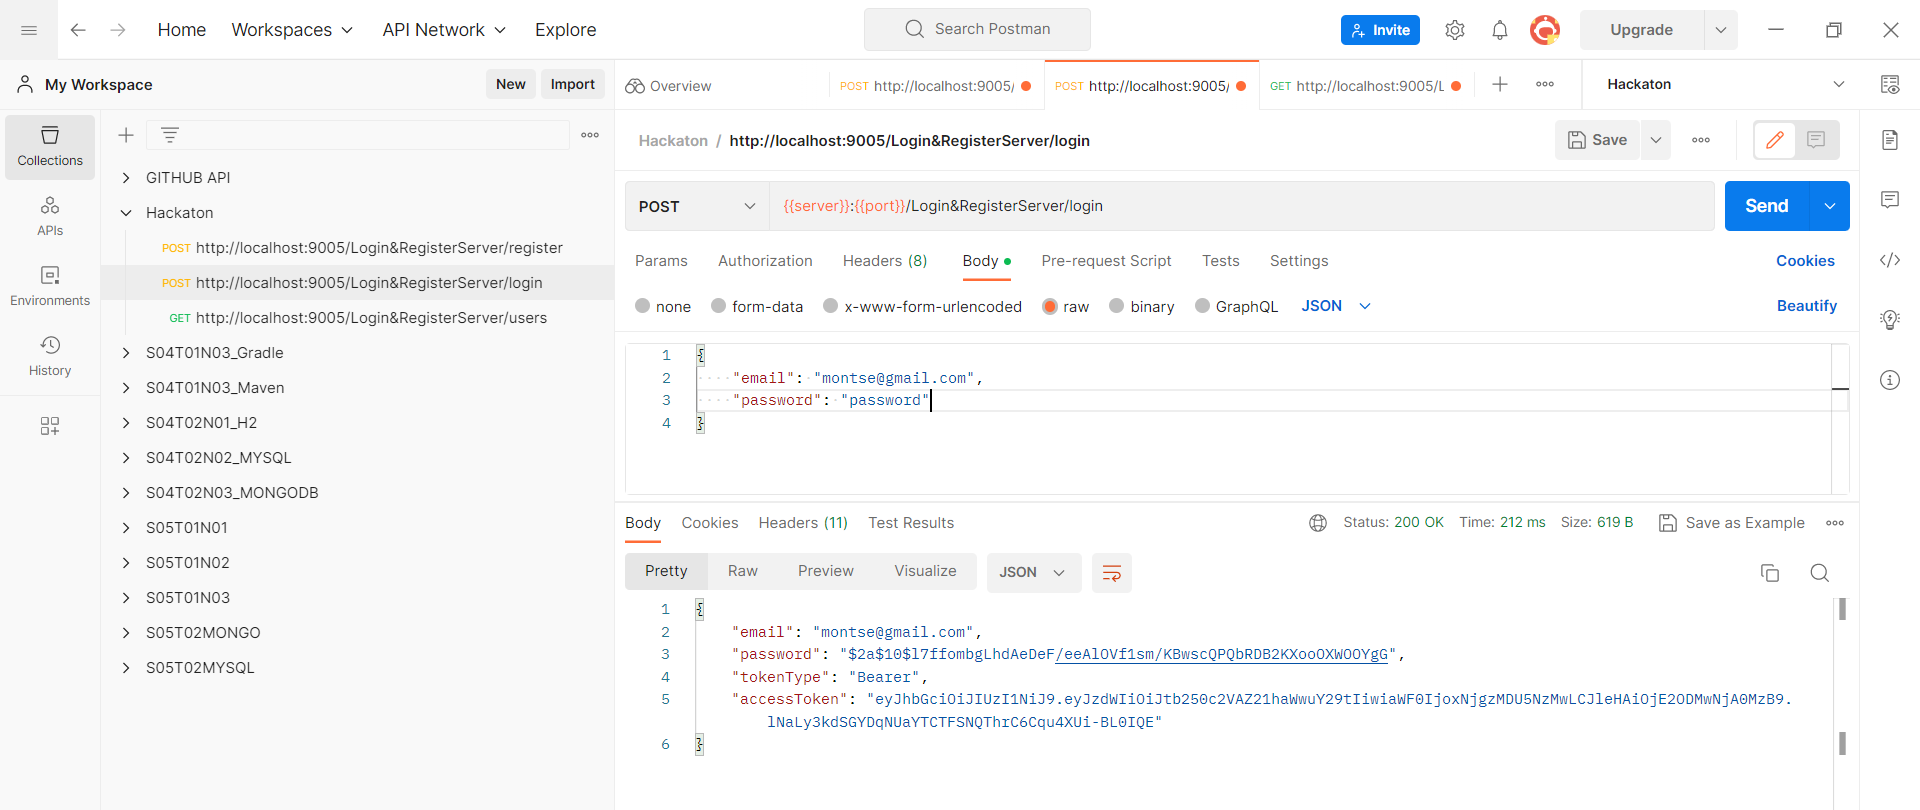
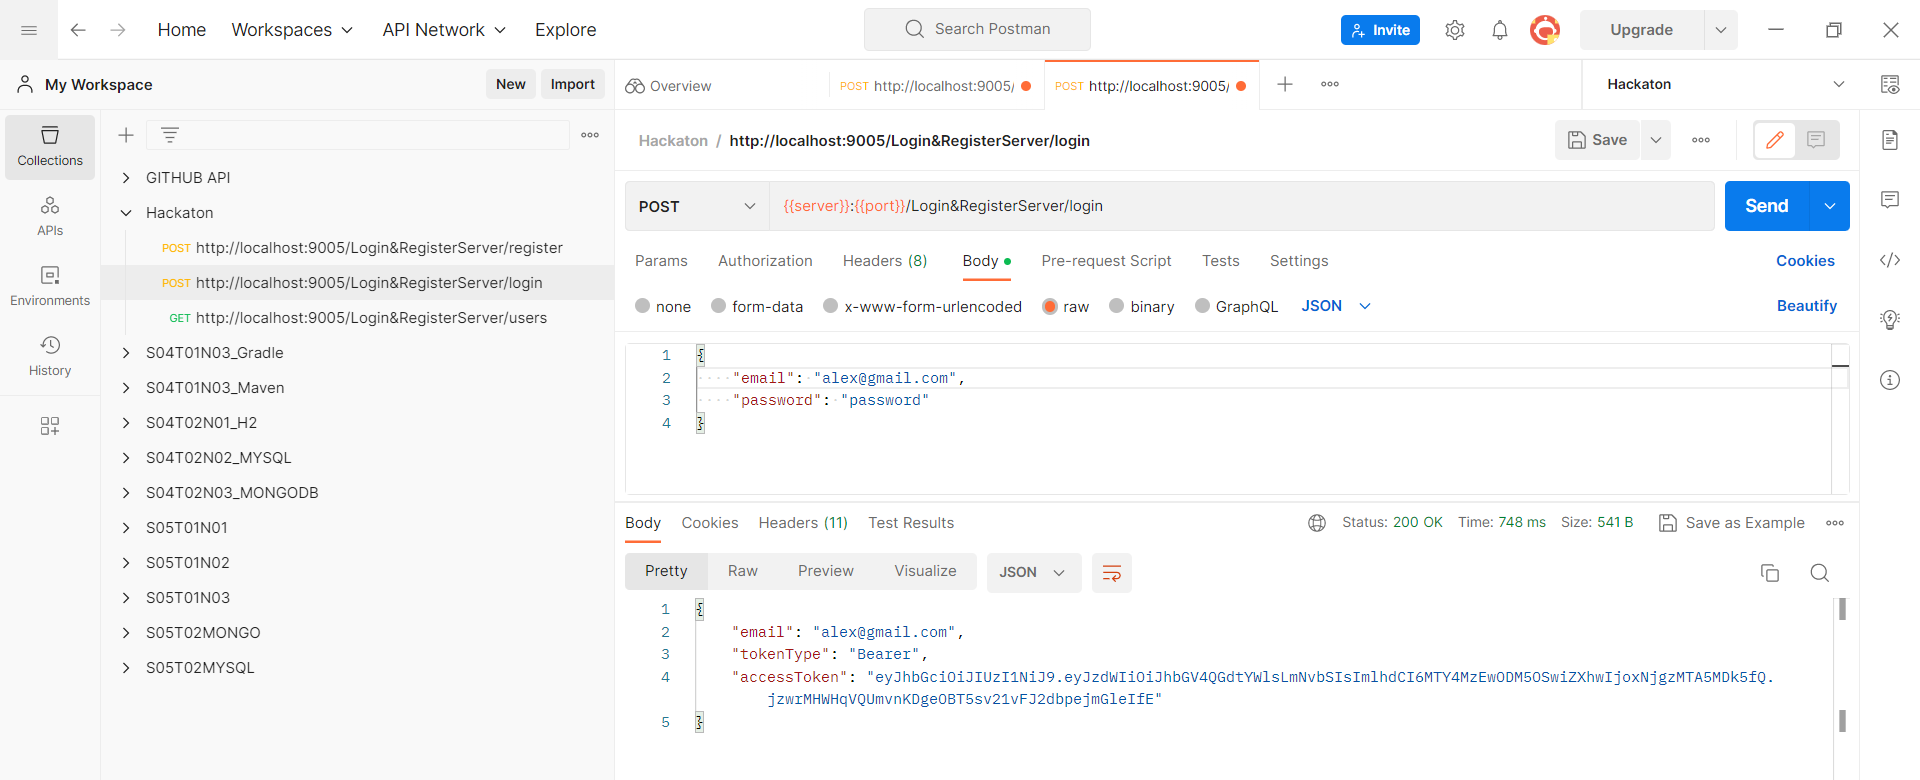
json ignore password

diff --git a/RetoLoginRegister_MontseLiz/src/main/java/io/nuwe/RetoLoginRegister_MontseLiz/model/dto/AuthenticationResponseDTO.java b/RetoLoginRegister_MontseLiz/src/main/java/io/nuwe/RetoLoginRegister_MontseLiz/model/dto/AuthenticationResponseDTO.java
@@ -1,5 +1,6 @@
 package io.nuwe.RetoLoginRegister_MontseLiz.model.dto;
 
+import com.fasterxml.jackson.annotation.JsonIgnore;
 import io.swagger.v3.oas.annotations.media.Schema;
 import lombok.AllArgsConstructor;
 import lombok.Data;
@@ -13,6 +14,7 @@ public class AuthenticationResponseDTO {
     @Schema(description = "Email of the user logged in", example = "montse@gmail.com")
     private String email;
 
+    @JsonIgnore
     @Schema(description = "Password of the user logged in", example = "password123")
     private String password;
 

diff --git a/RetoLoginRegister_MontseLiz/src/main/java/io/nuwe/RetoLoginRegister_MontseLiz/model/dto/RegisterUserDTO.java b/RetoLoginRegister_MontseLiz/src/main/java/io/nuwe/RetoLoginRegister_MontseLiz/model/dto/RegisterUserDTO.java
@@ -28,6 +28,7 @@ public class RegisterUserDTO {
     @Schema(description = "Email of the user registered", example = "montse@gmail.com")
     private String email;
 
+    @JsonIgnore
     @Schema(description = "Password of the user registered", example = "password123")
     private String password;
 
